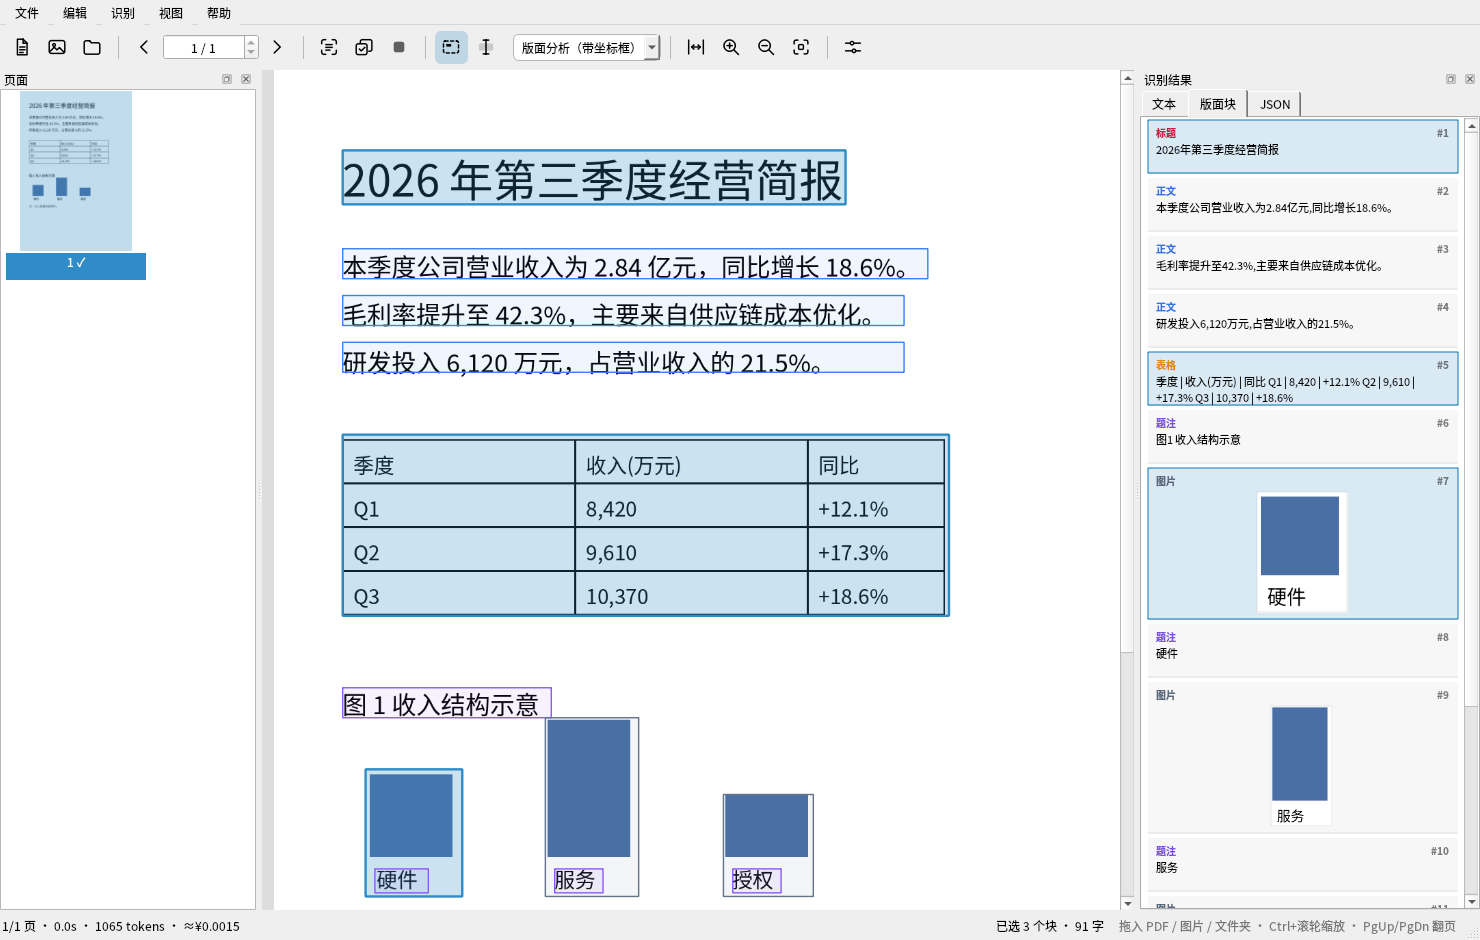
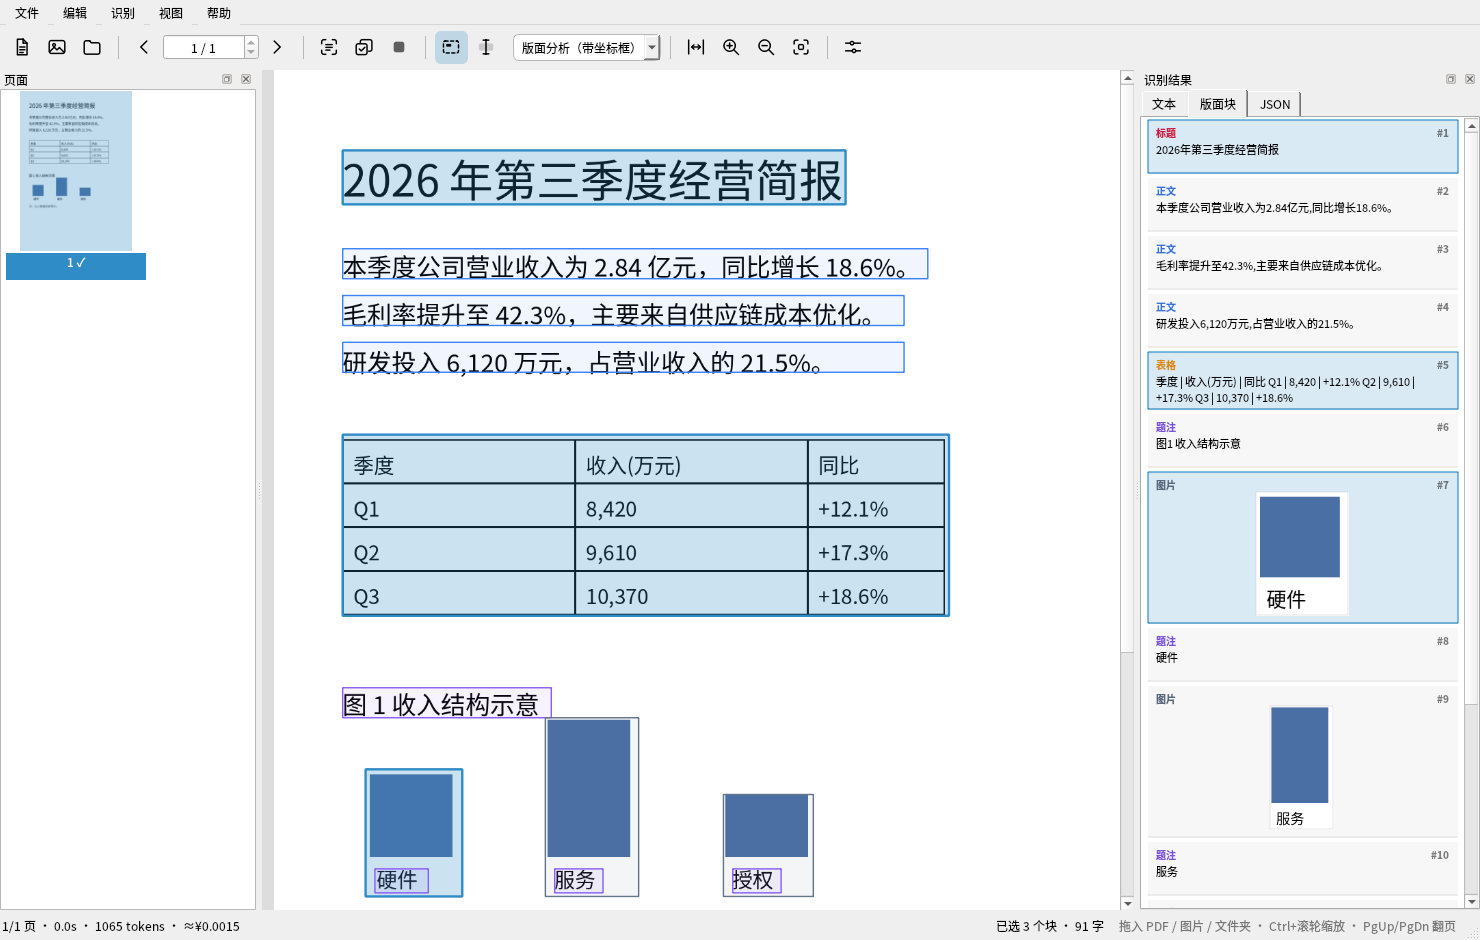
fix(ui): 版面块卡片按完整文本自适应高度
- 不再固定 2 行/固定高度：按当前侧栏宽度用 QTextLayout 计算完整换行结果，卡片高度随行数增长
- 侧栏宽度、字体和滚动条变化时重新排版，避免折行结果与卡片高度不一致
- 保留裁剪只作为越界保护，文字不再画到相邻卡片上
- 补 page_number/header/footer/section 等类型的中文标签
- 更新截图

diff --git a/src/blockcards.cpp b/src/blockcards.cpp
@@ -1,19 +1,21 @@
 #include "blockcards.h"
 
 #include <QAbstractItemView>
-#include <QItemSelectionModel>
-#include <QResizeEvent>
-#include <QSet>
-#include <QStyle>
 #include <QContextMenuEvent>
 #include <QFontMetrics>
+#include <QItemSelectionModel>
 #include <QKeyEvent>
 #include <QLabel>
 #include <QMenu>
 #include <QPainter>
+#include <QResizeEvent>
 #include <QPixmap>
+#include <QScrollBar>
+#include <QSet>
+#include <QStyle>
 #include <QTextLayout>
 #include <QTextOption>
+#include <QTimer>
 
 #include <algorithm>
 
@@ -21,44 +23,88 @@
 
 namespace {
 
-constexpr int kCardHeight = 58;
-constexpr int kImageCardHeight = 156;
+constexpr int kMinCardHeight = 58;
+constexpr int kMinImageCardHeight = 156;
+constexpr int kMarginX = 6;
+constexpr int kMarginY = 2;
+constexpr int kPadding = 8;
+constexpr int kHeaderTop = 5;
+constexpr int kHeaderGap = 1;
+constexpr int kBodyBottom = 3;
 
-// 用 QTextLayout 手动折两行，最后一行截断加省略号。
-void drawPreview(QPainter *painter, const QRect &rect, const QString &text, int maxLines)
+QFont cardLabelFont(const QFont &base)
 {
-    if (text.isEmpty())
-        return;
-    const QFontMetrics metrics(painter->font());
-    const int lineHeight = metrics.lineSpacing();
+    QFont font = base;
+    font.setPointSizeF(base.pointSizeF() * 0.82);
+    font.setBold(true);
+    return font;
+}
 
+QFont cardBodyFont(const QFont &base)
+{
+    QFont font = base;
+    font.setPointSizeF(base.pointSizeF() * 0.92);
+    return font;
+}
+
+int textWidthFor(int cardWidth)
+{
+    return qMax(20, cardWidth - 2 * kMarginX - 2 * kPadding);
+}
+
+int countLines(const QFont &font, int width, const QString &text)
+{
+    if (text.isEmpty() || width <= 0)
+        return 0;
+    QTextLayout layout(text, font);
+    QTextOption option;
+    option.setWrapMode(QTextOption::WrapAtWordBoundaryOrAnywhere);
+    layout.setTextOption(option);
+    layout.beginLayout();
+    int lines = 0;
+    while (true) {
+        QTextLine line = layout.createLine();
+        if (!line.isValid())
+            break;
+        line.setLineWidth(width);
+        ++lines;
+    }
+    layout.endLayout();
+    return lines;
+}
+
+void drawAllLines(QPainter *painter, const QRect &rect, const QString &text)
+{
+    if (text.isEmpty() || rect.height() <= 0 || rect.width() <= 0)
+        return;
     QTextLayout layout(text, painter->font());
     QTextOption option;
     option.setWrapMode(QTextOption::WrapAtWordBoundaryOrAnywhere);
     layout.setTextOption(option);
     layout.beginLayout();
-    QVector<QTextLine> lines;
-    while (lines.size() < maxLines) {
+    const int lineHeight = QFontMetrics(painter->font()).lineSpacing();
+    int y = rect.top();
+    while (true) {
         QTextLine line = layout.createLine();
         if (!line.isValid())
             break;
         line.setLineWidth(rect.width());
-        lines.append(line);
+        line.setPosition(QPointF(rect.left(), y));
+        line.draw(painter, QPointF(0, 0));
+        y += lineHeight;
     }
     layout.endLayout();
+}
 
-    for (int i = 0; i < lines.size(); ++i) {
-        const QTextLine &line = lines.at(i);
-        QString content = text.mid(line.textStart(), line.textLength());
-        const bool last = i == lines.size() - 1;
-        const int consumed = line.textStart() + line.textLength();
-        if (last && consumed < text.size())
-            content = metrics.elidedText(text.mid(line.textStart()), Qt::ElideRight,
-                                         rect.width());
-        painter->drawText(QRect(rect.left(), rect.top() + i * lineHeight, rect.width(),
-                                lineHeight),
-                          Qt::AlignLeft | Qt::AlignVCenter, content.trimmed());
-    }
+int cardHeight(const QFont &base, const QString &text, int width, bool hasImage)
+{
+    const int header = QFontMetrics(cardLabelFont(base)).height();
+    if (hasImage)
+        return qMax(kMinImageCardHeight, header + 140);
+    const int lines = countLines(cardBodyFont(base), textWidthFor(width), text);
+    const int lineHeight = QFontMetrics(cardBodyFont(base)).lineSpacing();
+    const int height = header + lines * lineHeight + 15;
+    return qMax(kMinCardHeight, height);
 }
 
 } // namespace
@@ -68,20 +114,30 @@ BlockCardDelegate::BlockCardDelegate(QObject *parent)
 {
 }
 
+int BlockCardDelegate::heightFor(const QModelIndex &index, const QFont &font, int width) const
+{
+    const bool hasImage = !index.data(BlockPixmapRole).value<QPixmap>().isNull();
+    return cardHeight(font, index.data(BlockTextRole).toString(), width, hasImage);
+}
+
 QSize BlockCardDelegate::sizeHint(const QStyleOptionViewItem &option,
                                   const QModelIndex &index) const
 {
-    const bool hasImage = !index.data(BlockPixmapRole).value<QPixmap>().isNull();
-    return QSize(qMax(180, option.rect.width()), hasImage ? kImageCardHeight : kCardHeight);
+    int width = option.rect.width();
+    if (auto *view = qobject_cast<QAbstractItemView *>(parent()))
+        width = view->viewport()->width();
+    width = qMax(180, width);
+    return QSize(width, heightFor(index, option.font, width));
 }
 
 void BlockCardDelegate::paint(QPainter *painter, const QStyleOptionViewItem &option,
                               const QModelIndex &index) const
 {
     painter->save();
+    painter->setClipRect(option.rect);
     painter->setRenderHint(QPainter::Antialiasing, true);
     painter->setRenderHint(QPainter::SmoothPixmapTransform, true);
-    const QRect outer = option.rect.adjusted(6, 2, -6, -2);
+    const QRect outer = option.rect.adjusted(kMarginX, kMarginY, -kMarginX, -kMarginY);
     if (outer.width() <= 0)
         return;
 
@@ -121,17 +177,13 @@ void BlockCardDelegate::paint(QPainter *painter, const QStyleOptionViewItem &opt
     const QPixmap pixmap = index.data(BlockPixmapRole).value<QPixmap>();
     const bool hasImage = !pixmap.isNull();
 
-    QFont labelFont = option.font;
-    labelFont.setPointSizeF(option.font.pointSizeF() * 0.82);
-    labelFont.setBold(true);
-    QFont bodyFont = option.font;
-    bodyFont.setPointSizeF(option.font.pointSizeF() * 0.92);
+    const QFont labelFont = cardLabelFont(option.font);
+    const QFont bodyFont = cardBodyFont(option.font);
     const QFontMetrics labelMetrics(labelFont);
 
-    const int padding = 8;
-    const int textLeft = outer.left() + padding;
-    const int textRight = outer.right() - padding;
-    const int labelTop = outer.top() + 5;
+    const int textLeft = outer.left() + kPadding;
+    const int textRight = outer.right() - kPadding;
+    const int labelTop = outer.top() + kHeaderTop;
 
     painter->setFont(labelFont);
     painter->setPen(accent);
@@ -144,11 +196,12 @@ void BlockCardDelegate::paint(QPainter *painter, const QStyleOptionViewItem &opt
                       Qt::AlignRight | Qt::AlignVCenter,
                       QStringLiteral("#%1").arg(index.row() + 1));
 
+    const int bodyTop = labelTop + labelMetrics.height() + kHeaderGap;
     if (hasImage) {
         // 图片卡片：让裁剪出的页面区域占据卡片主体，等比缩放居中。
-        const QRect imageArea(outer.left() + padding, labelTop + labelMetrics.height() + 4,
-                              outer.width() - padding * 2,
-                              outer.bottom() - 6 - (labelTop + labelMetrics.height() + 4));
+        const QRect imageArea(outer.left() + kPadding, bodyTop,
+                              outer.width() - kPadding * 2,
+                              outer.bottom() - 6 - bodyTop);
         const QSize target = pixmap.size().scaled(imageArea.size(), Qt::KeepAspectRatio);
         const QRect targetRect(imageArea.center().x() - target.width() / 2,
                                imageArea.center().y() - target.height() / 2,
@@ -165,10 +218,9 @@ void BlockCardDelegate::paint(QPainter *painter, const QStyleOptionViewItem &opt
     if (!text.isEmpty()) {
         painter->setFont(bodyFont);
         painter->setPen(option.palette.color(QPalette::Text));
-        const QRect bodyRect(textLeft, labelTop + labelMetrics.height() + 1,
-                             textRight - textLeft,
-                             outer.bottom() - 3 - (labelTop + labelMetrics.height() + 1));
-        drawPreview(painter, bodyRect, text, 2);
+        const QRect bodyRect(textLeft, bodyTop, textRight - textLeft,
+                             outer.bottom() - kBodyBottom - bodyTop);
+        drawAllLines(painter, bodyRect, text);
     }
 
     painter->restore();
@@ -203,6 +255,10 @@ BlockCardList::BlockCardList(QWidget *parent)
     connect(this, &QListWidget::itemSelectionChanged, this, [this] {
         if (!m_updating)
             emit cardsSelectionChanged(selectedBlocks());
+    });
+    // 滚动条出现/消失会改变正文宽度，需要重新折行和计算高度。
+    connect(verticalScrollBar(), &QScrollBar::rangeChanged, this, [this](int, int) {
+        scheduleRelayout();
     });
 }
 
@@ -245,6 +301,8 @@ void BlockCardList::setBlocks(const QVector<ocr::Block> &blocks, const QImage &p
         item->setToolTip(text);
     }
     m_updating = false;
+    m_layoutWidth = -1;
+    scheduleRelayout();
     m_empty->setVisible(blocks.isEmpty());
     m_empty->raise();
 }
@@ -288,10 +346,49 @@ void BlockCardList::scrollToBlock(int index)
     scrollToItem(item(index), QAbstractItemView::PositionAtCenter);
 }
 
+void BlockCardList::relayout()
+{
+    const int width = viewport()->width();
+    if (width <= 0 || width == m_layoutWidth)
+        return;
+    auto *delegate = qobject_cast<BlockCardDelegate *>(itemDelegate());
+    if (!delegate)
+        return;
+
+    m_layoutWidth = width;
+    for (int row = 0; row < count(); ++row) {
+        QListWidgetItem *listItem = item(row);
+        const QModelIndex idx = model()->index(row, 0);
+        listItem->setSizeHint(QSize(width, delegate->heightFor(idx, font(), width)));
+    }
+}
+
+void BlockCardList::scheduleRelayout()
+{
+    if (m_relayouting)
+        return;
+    m_relayouting = true;
+    QTimer::singleShot(0, this, [this] {
+        m_relayouting = false;
+        relayout();
+    });
+}
+
 void BlockCardList::resizeEvent(QResizeEvent *event)
 {
     QListWidget::resizeEvent(event);
-    m_empty->setGeometry(viewport()->rect().adjusted(24, 24, -24, -24));
+    if (m_empty)
+        m_empty->setGeometry(viewport()->rect().adjusted(24, 24, -24, -24));
+    scheduleRelayout();
+}
+
+void BlockCardList::changeEvent(QEvent *event)
+{
+    QListWidget::changeEvent(event);
+    if (event->type() == QEvent::FontChange) {
+        m_layoutWidth = -1;
+        scheduleRelayout();
+    }
 }
 
 void BlockCardList::keyPressEvent(QKeyEvent *event)

diff --git a/src/blockcards.h b/src/blockcards.h
@@ -1,6 +1,7 @@
-// 右侧「版面块」卡片列表：类型色条 + 两行文本预览，支持多选与复制。
+// 右侧「版面块」卡片列表：类型色条 + 完整文本，支持多选与复制。
 #pragma once
 
+#include <QFont>
 #include <QListWidget>
 #include <QStyledItemDelegate>
 #include <QVector>
@@ -20,6 +21,9 @@ class BlockCardDelegate : public QStyledItemDelegate {
     Q_OBJECT
 public:
     explicit BlockCardDelegate(QObject *parent = nullptr);
+
+    // 按给定宽度和字体计算卡片高度；文本完整排版，不截断。
+    int heightFor(const QModelIndex &index, const QFont &font, int width) const;
 
     void paint(QPainter *painter, const QStyleOptionViewItem &option,
                const QModelIndex &index) const override;
@@ -46,10 +50,16 @@ signals:
 
 protected:
     void resizeEvent(QResizeEvent *event) override;
+    void changeEvent(QEvent *event) override;
     void keyPressEvent(QKeyEvent *event) override;
     void contextMenuEvent(QContextMenuEvent *event) override;
 
 private:
+    void relayout();
+    void scheduleRelayout();
+
     QLabel *m_empty = nullptr;
     bool m_updating = false;
+    bool m_relayouting = false;
+    int m_layoutWidth = -1;
 };

diff --git a/src/ocr.cpp b/src/ocr.cpp
@@ -133,6 +133,14 @@ QString kindLabel(const QString &kind)
     if (kind == QLatin1String("title")) return QStringLiteral("标题");
     if (kind == QLatin1String("text")) return QStringLiteral("正文");
     if (kind == QLatin1String("table")) return QStringLiteral("表格");
+    if (kind.contains(QLatin1String("page_number"))
+        || kind.contains(QLatin1String("page_footer")))
+        return QStringLiteral("页码");
+    if (kind == QLatin1String("header")) return QStringLiteral("页眉");
+    if (kind == QLatin1String("footer")) return QStringLiteral("页脚");
+    if (kind == QLatin1String("list")) return QStringLiteral("列表");
+    if (kind == QLatin1String("section")) return QStringLiteral("章节");
+    if (kind == QLatin1String("abstract")) return QStringLiteral("摘要");
     if (kind.contains(QLatin1String("caption"))) return QStringLiteral("题注");
     if (kind.contains(QLatin1String("figure")) || kind.contains(QLatin1String("image")))
         return QStringLiteral("图片");
